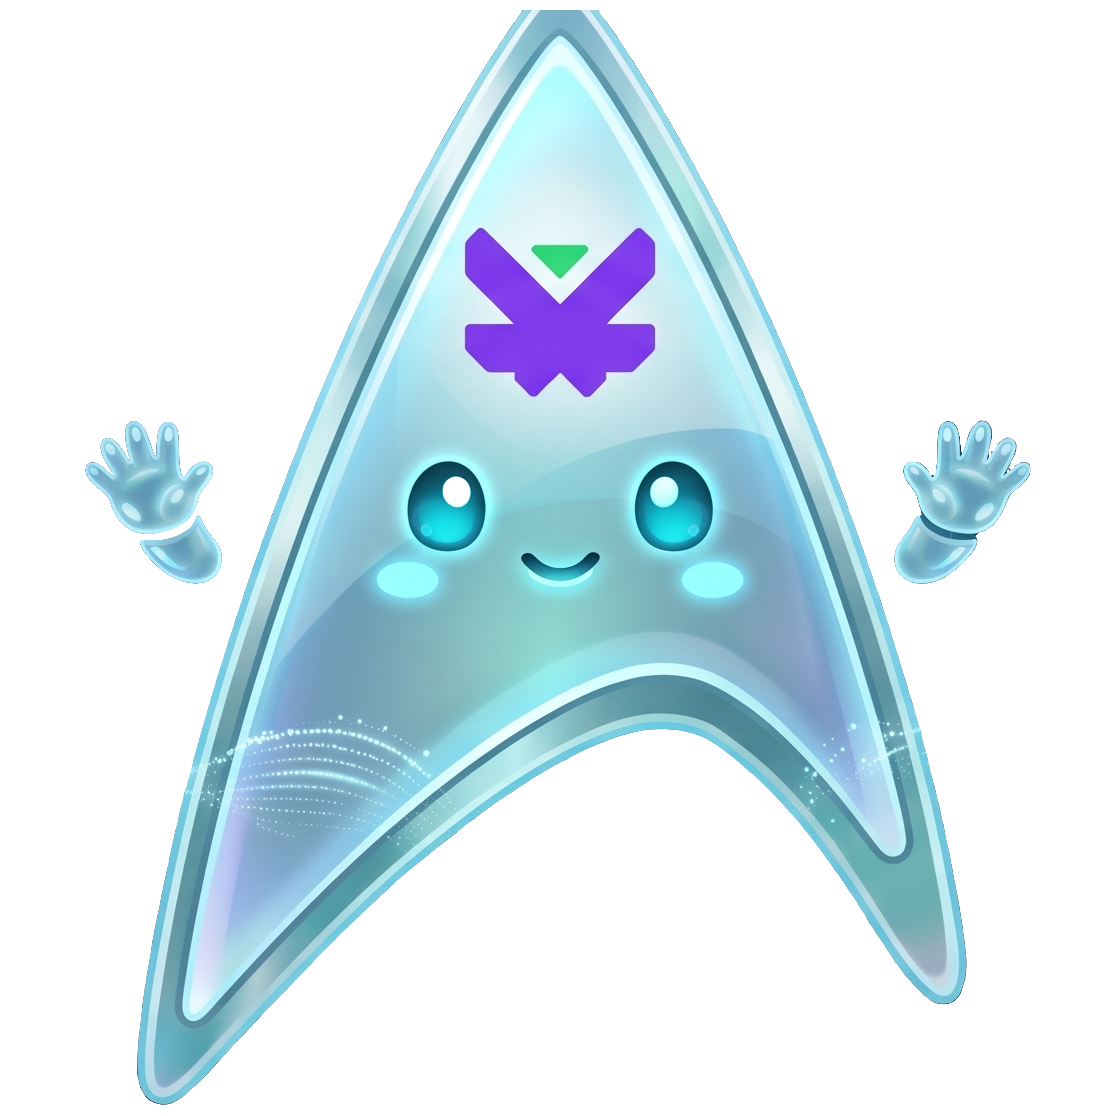
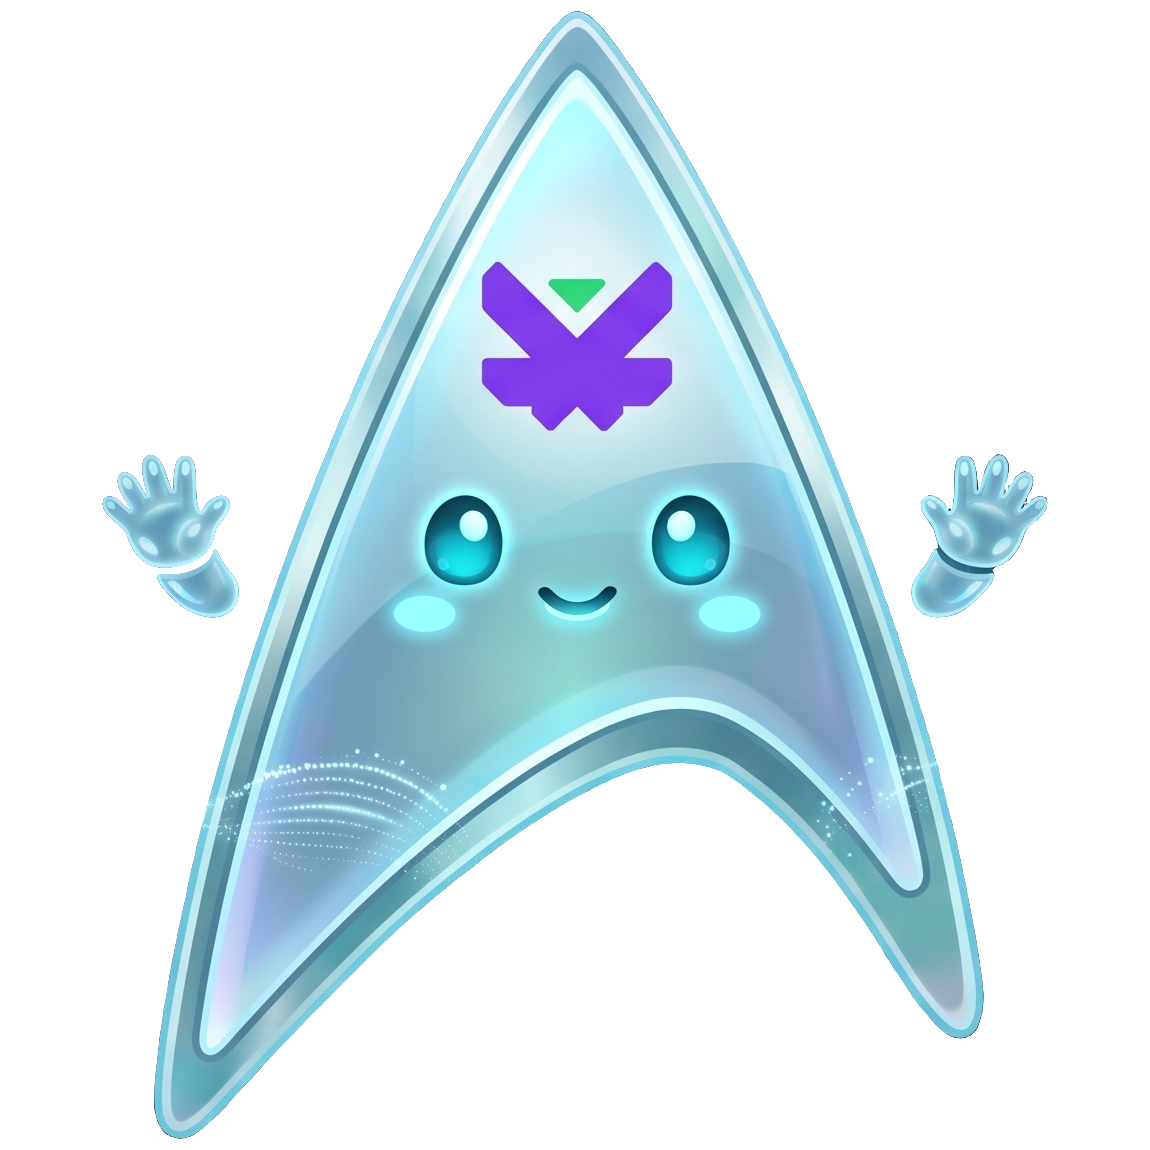
Light Delta on the experience card: whole tip
The crop box started below the tip of the light Delta, so the card
showed it cut at the top. The box now starts just under the caption
above it; all densities re-cut.

Changed region(s): [[0.0609, 0.0, 0.9444, 1.0]]

diff --git a/asset_sources/persona/make_persona_assets.py b/asset_sources/persona/make_persona_assets.py
@@ -31,14 +31,15 @@ BASE = 140
 DENSITIES = {"": 1.0, "1.5x": 1.5, "2.0x": 2.0, "3.0x": 3.0, "4.0x": 4.0}
 
 # Each Delta's box on the 2752 x 1536 sheet, clear of the title and the
-# captions under them.
+# captions under them. The light Delta's tip starts at y 266 and the
+# "MASCOT CONCEPT" caption ends at y 238.
 BOXES = {
-    "delta_public": (130, 300, 1290, 1400),
+    "delta_public": (130, 248, 1290, 1400),
     "delta_private": (1450, 230, 2680, 1400),
 }
 
 # Boxes (in the figure's box) whose own matte is added.
-EXTRA = {"delta_public": [(70, 380, 280, 600)]}
+EXTRA = {"delta_public": [(70, 432, 280, 652)]}
 
 session = new_session("birefnet-general")
 sheet = Image.open(SRC).convert("RGB")
